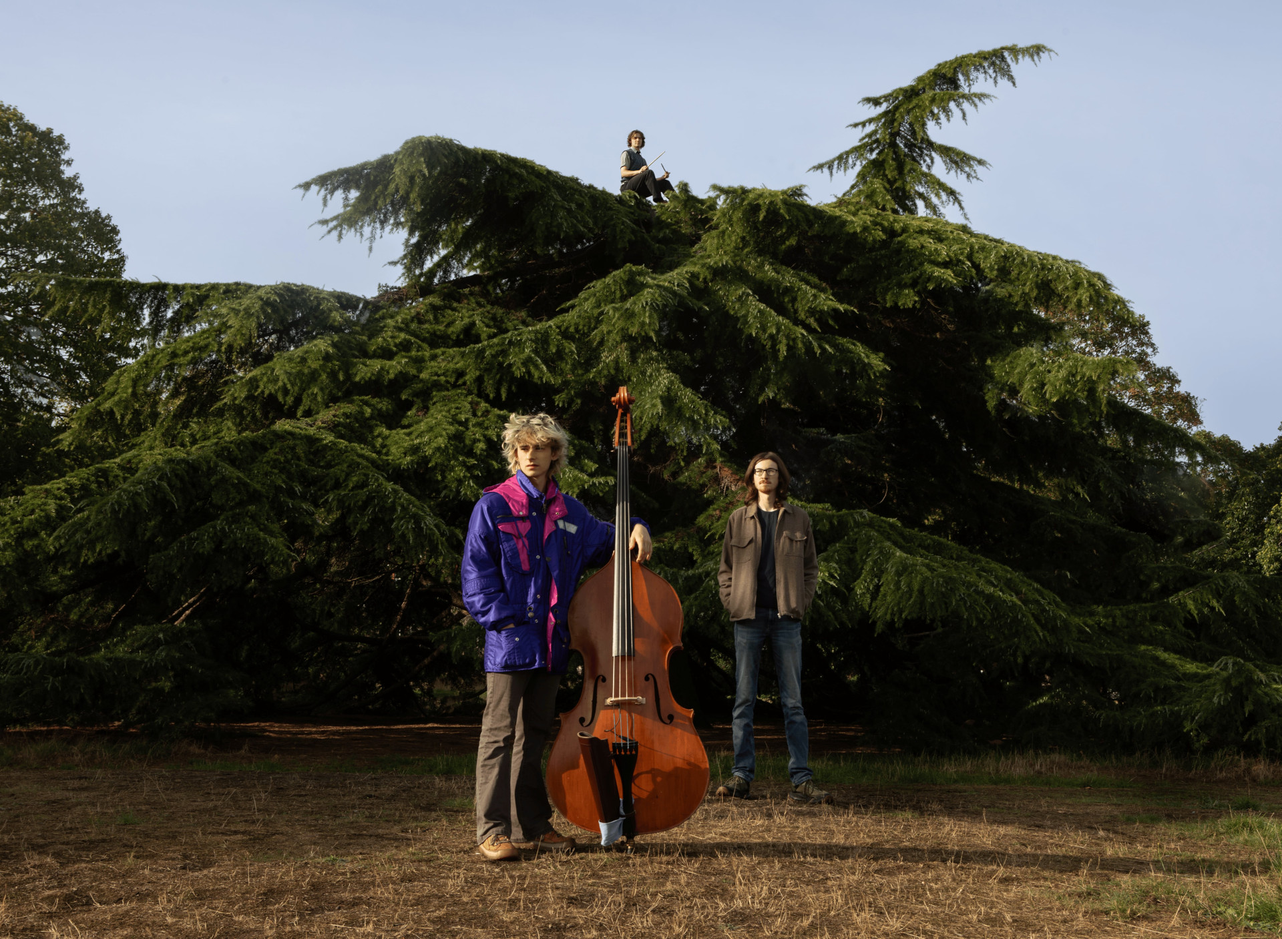
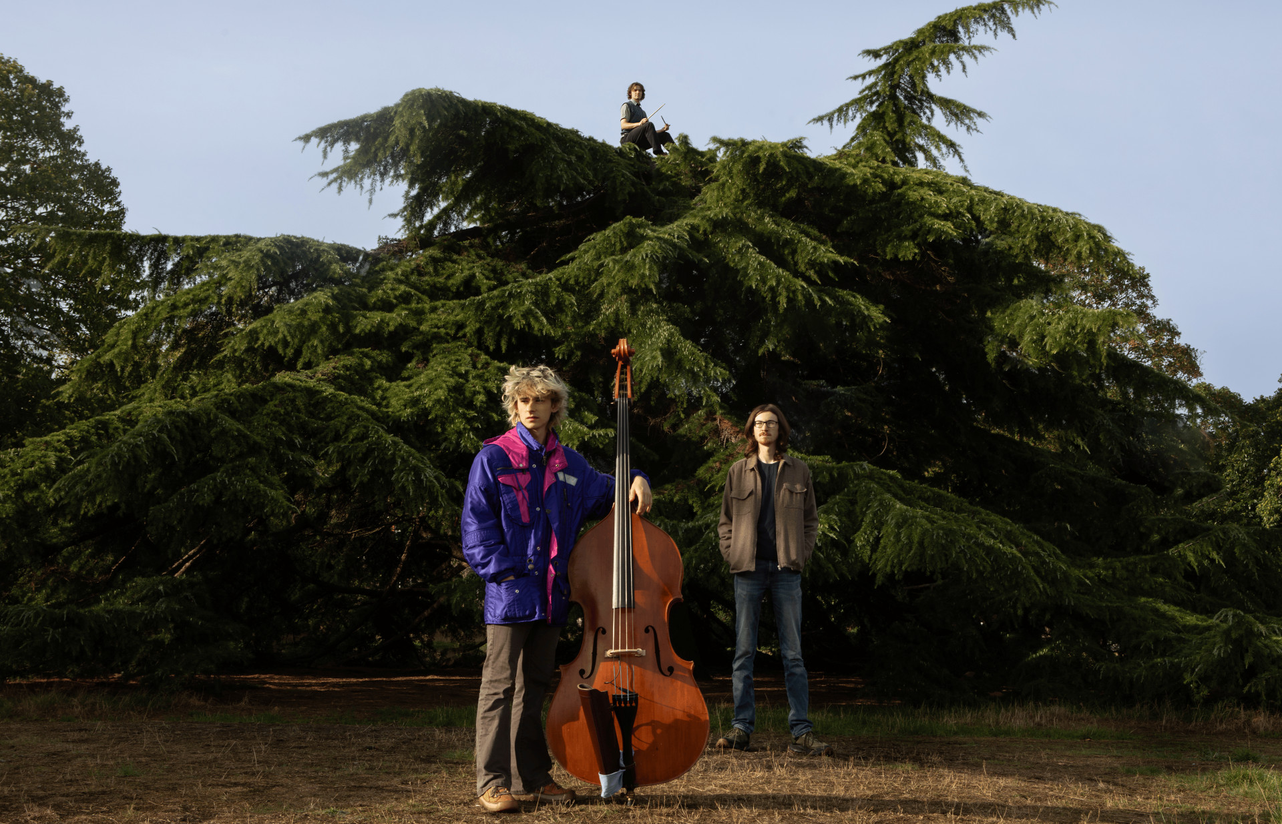
Add files via upload

diff --git a/style.css b/style.css
@@ -1,98 +1,126 @@
 
-/*@media (max-width: 1200px) {.emrys {padding-left: 2%;}}*/
+/*@media only screen and (max-width: 1500px) {.emrys {padding-left: 2%;}}*/
 /*pointer coarse*/
 
-@media (max-width: 1200px), (pointer: coarse) {.menu {z-index: 10; padding-top: 5vh; position: fixed; padding-left: 5vw; padding-right: 5vw; bottom: 0; left: 0; right: 0; padding-bottom: 2vh; display: grid; grid-template-columns: 1fr 1fr 1fr; align-items: center; justify-items: center;}
+@media only screen and (max-width: 900px), (pointer: coarse) {.menu {z-index: 10; padding-top: 5vh; position: fixed; padding-left: 5vw; padding-right: 5vw; bottom: 0; left: 0; right: 0; padding-bottom: 2vh; display: grid; grid-template-columns: 1fr 1fr 1fr; align-items: center; justify-items: center;}
 }
 /*POINTER COARSE*/
-@media (max-width: 1200px), (pointer: coarse) {.centre-menu {z-index: 10; padding-top: 5vh; position: fixed; bottom: 57%; left: 0; right: 0; padding-bottom: 2vh; display: grid; padding-left: 5vw; padding-right: 5vw; grid-template-columns: 1fr 1fr 1fr; align-items: center; justify-items: center;}
+@media only screen and (max-width: 900px), (pointer: coarse) {.centre-menu {z-index: 10; padding-top: 5vh; position: fixed; bottom: 57%; left: 0; right: 0; padding-bottom: 2vh; display: grid; padding-left: 5vw; padding-right: 5vw; grid-template-columns: 1fr 1fr 1fr; align-items: center; justify-items: center;}
 }
 
 /*pointer coarse*/
-@media (max-width: 1200px), (pointer: coarse) {.menu-blur {z-index: 10; padding-top: 5vh; position: fixed; bottom: 0; left: 0; right: 0; padding-bottom: 2vh; display: grid; grid-template-columns: 1fr 1fr 1fr; align-items: center; justify-items: center; backdrop-filter: blur(10px);}
+@media only screen and (max-width: 900px), (pointer: coarse) {.menu-blur {z-index: 10; padding-top: 5vh; position: fixed; bottom: 0; left: 0; right: 0; padding-bottom: 2vh; display: grid; grid-template-columns: 1fr 1fr 1fr; align-items: center; justify-items: center; backdrop-filter: blur(10px);}
 }
 
 /*pointer coarse*/
-@media (max-width: 1200px), (pointer: coarse) {.header { position: fixed; z-index: 10; top: 0; left: 0; right: 0; display: grid; padding-left: 5vw; padding-right: 5vw; grid-template-columns: 1fr 1fr 1fr; height: 17vh; align-items: center; justify-items: center;}
+@media only screen and (max-width: 900px), (pointer: coarse) {.header { position: fixed; z-index: 10; top: 0; left: 0; right: 0; display: grid; padding-left: 5vw; padding-right: 5vw; grid-template-columns: 1fr 1fr 1fr; height: 17vh; align-items: center; justify-items: center;}
 }
 /*pointer coarse*/
-@media (max-width: 1200px), (pointer: coarse) {.header-blur {position: fixed; z-index: 10; top: 0; left: 0; right: 0; display: grid; padding-left: 5vw; padding-right: 5vw; grid-template-columns: 1fr 1fr 1fr; height: 17vh; align-items: center; justify-items: center; mask: linear-gradient( black, black, black, black, transparent); backdrop-filter: blur(7px);}
+@media only screen and (max-width: 900px), (pointer: coarse) {.header-blur {position: fixed; z-index: 10; top: 0; left: 0; right: 0; display: grid; padding-left: 5vw; padding-right: 5vw; grid-template-columns: 1fr 1fr 1fr; height: 17vh; align-items: center; justify-items: center; mask: linear-gradient( black, black, black, black, transparent); backdrop-filter: blur(7px);}
 }
 
-@media (max-width: 1200px), (pointer: coarse) {.contactinfo {position: absolute; top: 0; left: 0; transform: translate(10vw, 100%);}}
+@media only screen and (max-width: 1500px), (pointer: coarse) {.contactinfo {position: absolute; top: 0; left: 0; transform: translate(10vw, 100%);}}
 /*pointer coarse*/
-@media (max-width: 420px), (pointer: coarse) {.menu-items {width: 6vmax; filter: sepia(100%) saturate(100%);}}
+@media only screen and (max-width: 420px), (pointer: coarse) {.menu-items {width: 6vmax; filter: sepia(100%) saturate(100%);}}
 
-@media (max-width: 420px), (pointer: coarse) {.double-bass {width: 11vmax; filter: sepia(100%) saturate(100%); transform: rotate(20deg);}}
+@media only screen and (max-width: 420px), (pointer: coarse) {.double-bass {width: 11vmax; filter: sepia(100%) saturate(100%); transform: rotate(20deg);}}
 
-@media (max-width: 420px), (pointer: coarse) {.about {width: 17vmax; filter: sepia(100%) saturate(100%);}}
+@media only screen and (max-width: 420px), (pointer: coarse) {.about {width: 17vmax; filter: sepia(100%) saturate(100%);}}
 /*pointer coarse*/
-@media (max-width: 420px), (pointer: coarse) {.mountain {width: 18vmax; filter: sepia(100%) saturate(100%); position: absolute; transform: translate(-50%, -50%);}}
+@media only screen and (max-width: 420px), (pointer: coarse) {.mountain {width: 18vmax; filter: sepia(100%) saturate(100%); position: absolute; transform: translate(-50%, -50%);}}
 
-@media (max-width: 420px), (pointer: coarse) {.logo {width: 24vmax; filter: sepia(100%) saturate(100%); position: absolute; transform: translate(-40%, -50%);}}
+@media only screen and (max-width: 420px), (pointer: coarse) {.logo {width: 24vmax; filter: sepia(100%) saturate(100%); position: absolute; transform: translate(-40%, -50%);}}
 
-@media (max-width: 1200px), (pointer: coarse) {.block {text-justify: center; padding-top: 14vh; padding-bottom: 10vh;}}
+@media only screen and (max-width: 1500px), (pointer: coarse) {.block {text-justify: center; padding-top: 14vh; padding-bottom: 10vh;}}
             
-@media (max-width: 420px), (pointer: coarse) {h1 {font-size: 12vmin}}
+@media only screen and (max-width: 420px), (pointer: coarse) {h1 {font-size: 12vmin}}
 
-@media (max-width: 1200px), (pointer: coarse) {p {padding-left: 2%;}}
+@media only screen and (max-width: 1500px), (pointer: coarse) {p {padding-left: 2%;}}
 
-@media (max-width: 420px), (pointer: coarse) {p {font-size: 6vmin}}
+@media only screen and (max-width: 420px), (pointer: coarse) {p {font-size: 6vmin}}
 
-@media (max-width: 420px), (pointer: coarse) {.link-pic {position: absolute; top: 20%; left: 50%; transform: translate(-50%, -50%); max-width: 90vmax; opacity: 0}
+@media only screen and (max-width: 420px), (pointer: coarse) {.link-pic {position: absolute; top: 20%; left: 50%; transform: translate(-50%, -50%); max-width: 90vmax; opacity: 0}
             }
             
-@media (max-width: 500px), (pointer: coarse) {.center {
+@media only screen and (max-width: 500px), (pointer: coarse) {.center {
     position: relative;
     padding-top: 20vh; display: flex; justify-content: center; align-items: center;}}
 
            
 
+
+
+
+
+
+
+
             /*keep below as breakpoint margins, set above as pointer coarse?*/
 
-     
-/*@media (min-width: 1200px) {.emrys {padding-left: 20%;}}*/
-
-@media (min-width: 1200px) {.menu {z-index: 10; position: fixed; bottom: 0; left: 0; right: 0; padding-bottom: 2vh; padding-left: 13vw; padding-right: 13vw; display: grid; grid-template-columns: 1fr 1fr 1fr; align-items: center; justify-items: center;}
+@media only screen and (min-width: 900px) and (max-width: 1500px) {.menu {z-index: 10; position: fixed; bottom: 0; left: 0; right: 0; padding-bottom: 2vh; padding-left: 5vw; padding-right: 5vw; display: grid; grid-template-columns: 1fr 1fr 1fr; align-items: center; justify-items: center;}
 }
 
-@media (min-width: 1200px) {.centre-menu {z-index: 10; position: fixed; top: 42vh; bottom: 40vh; left: 0; right: 0; padding-bottom: 2vh; padding-left: 13vw; padding-right: 13vw; display: grid; grid-template-columns: 1fr 1fr 1fr; align-items: center; justify-items: center;}
+@media only screen and (min-width: 900px) and (max-width: 1500px) {.centre-menu {z-index: 10; position: fixed; top: 42vh; bottom: 40vh; left: 0; right: 0; padding-bottom: 2vh; padding-left: 5vw; padding-right: 5vw; display: grid; grid-template-columns: 1fr 1fr 1fr; align-items: center; justify-items: center;}
 }
 
-@media (min-width: 1200px) {.menu-blur {z-index: 10; position: fixed; bottom: 0; left: 0; right: 0; padding-bottom: 2vh; padding-left: 10vw; padding-right: 10vw; display: grid; grid-template-columns: 1fr 1fr 1fr; align-items: center; justify-items: center;}
+/*pointer coarse*/
+@media only screen and (min-width: 900px) and (max-width: 1500px) {.header {position: fixed; z-index: 10; top: 11vh; left: 0; right: 0; padding-left: 5vw; padding-right: 5vw; display: grid; grid-template-columns: 1fr 1fr 1fr; align-items: center; justify-items: center;}
 }
 
-@media (min-width: 1200px) {.header {position: fixed; z-index: 10; top: 11vh; left: 0; right: 0; padding-left: 14vw; padding-right: 13vw; display: grid; grid-template-columns: 1fr 1fr 1fr; align-items: center; justify-items: center;}
+/*pointer coarse*/
+@media only screen and (min-width: 900px) and (max-width: 1500px) {.header-blur {position: fixed; z-index: 10; top: 11vh; left: 0; right: 0; padding-left: 5vw; padding-right: 5vw; display: grid; grid-template-columns: 1fr 1fr 1fr; align-items: center; justify-items: center;}
 }
 
-@media (min-width: 1200px) {.header-blur {position: fixed; z-index: 10; top: 11vh; left: 0; right: 0; padding-left: 14vw; padding-right: 13vw; display: grid; grid-template-columns: 1fr 1fr 1fr; align-items: center; justify-items: center;}
+
+
+
+
+
+
+
+
+/*@media only screen and (min-width: 1500px) {.emrys {padding-left: 20%;}}*/
+
+@media only screen and (min-width: 1500px) {.menu {z-index: 10; position: fixed; bottom: 0; left: 0; right: 0; padding-bottom: 2vh; padding-left: 13vw; padding-right: 13vw; display: grid; grid-template-columns: 1fr 1fr 1fr; align-items: center; justify-items: center;}
 }
 
-@media (min-width: 1200px) {.contactinfo {position: absolute; transform: translate(0%, 100%); margin-right: 17vw; margin-left: 17vw; }}
+@media only screen and (min-width: 1500px) {.centre-menu {z-index: 10; position: fixed; top: 42vh; bottom: 40vh; left: 0; right: 0; padding-bottom: 2vh; padding-left: 13vw; padding-right: 13vw; display: grid; grid-template-columns: 1fr 1fr 1fr; align-items: center; justify-items: center;}
+}
 
-@media (min-width: 420px) {.menu-items {width: 7vmin; filter: sepia(100%) saturate(100%);}}
+@media only screen and (min-width: 1500px) {.menu-blur {z-index: 10; position: fixed; bottom: 0; left: 0; right: 0; padding-bottom: 2vh; padding-left: 10vw; padding-right: 10vw; display: grid; grid-template-columns: 1fr 1fr 1fr; align-items: center; justify-items: center;}
+}
 
-@media (min-width: 420px) {.double-bass {width: 13vmin; filter: sepia(100%) saturate(100%);}}
+@media only screen and (min-width: 1500px) {.header {position: fixed; z-index: 10; top: 11vh; left: 0; right: 0; padding-left: 14vw; padding-right: 13vw; display: grid; grid-template-columns: 1fr 1fr 1fr; align-items: center; justify-items: center;}
+}
 
-@media (min-width: 420px) {.about {width: 20vmin; filter: sepia(100%) saturate(100%);}}
+@media only screen and (min-width: 1500px) {.header-blur {position: fixed; z-index: 10; top: 11vh; left: 0; right: 0; padding-left: 14vw; padding-right: 13vw; display: grid; grid-template-columns: 1fr 1fr 1fr; align-items: center; justify-items: center;}
+}
 
-@media (min-width: 420px) {.mountain {width: 24vmin; filter: sepia(100%) saturate(100%); position: absolute; transform: translate(-50%, -50%);}}
+@media only screen and (min-width: 1500px) {.contactinfo {position: absolute; transform: translate(0%, 100%); margin-right: 17vw; margin-left: 17vw; }}
+
+@media only screen and (min-width: 420px) {.menu-items {width: 7vmin; filter: sepia(100%) saturate(100%);}}
+
+@media only screen and (min-width: 420px) {.double-bass {width: 13vmin; filter: sepia(100%) saturate(100%);}}
+
+@media only screen and (min-width: 420px) {.about {width: 20vmin; filter: sepia(100%) saturate(100%);}}
+
+@media only screen and (min-width: 420px) {.mountain {width: 24vmin; filter: sepia(100%) saturate(100%); position: absolute; transform: translate(-50%, -50%);}}
 
 
-@media (min-width: 420px) {.logo {width: 34vmin; filter: sepia(100%) saturate(100%); position: absolute; transform: translate(-50%, -50%);}}
+@media only screen and (min-width: 420px) {.logo {width: 34vmin; filter: sepia(100%) saturate(100%); position: absolute; transform: translate(-50%, -50%);}}
 
-@media (min-width: 420px) {h1 {font-size: 7vmin;}}
+@media only screen and (min-width: 420px) {h1 {font-size: 7vmin;}}
 
 
 
-@media (min-width: 420px) {p {font-size: 3vmin;}}
+@media only screen and (min-width: 420px) {p {font-size: 3vmin;}}
 
-@media (min-width: 420px) {.link-pic {position: absolute; top: 20%; left: 50%; transform: translate(-50%, -50%); max-height: 70vmin; opacity: 1}
+@media only screen and (min-width: 420px) {.link-pic {position: absolute; top: 20%; left: 50%; transform: translate(-50%, -50%); max-height: 70vmin; opacity: 1}
             }
             
- @media (min-width: 1200px) {.block {position: absolute; text-justify: center; margin-right: 25vw; margin-left: 19vw; margin-top: 20vh;}}
+ @media only screen and (min-width: 1500px) {.block {position: absolute; text-justify: center; margin-right: 25vw; margin-left: 19vw; margin-top: 20vh;}}
 
-@media (min-width: 500px) {.center {
+@media only screen and (min-width: 500px) {.center {
     position: relative;
     padding-top: 20vh; display: flex; justify-content: center; align-items: center;}}
 
@@ -111,4 +139,4 @@ iframe {width: 80vmin; height: 45vmin}
             
 .hover-effect:hover {cursor: pointer; color: black; background-color: rgb(255, 255, 255); filter: sepia(100%) saturate(100%);}
 
-            
+           

diff --git a/index.html b/index.html
@@ -20,11 +20,11 @@
 
         <style>
 
-            @media (max-width: 500px), (pointer: coarse) {body {background-image: url(EMRYSBACKGROUND.jpg); background-position: center top; background-size: 310%; background-repeat: no-repeat; background-attachment: scroll; overflow: hidden;}}
+            @media only screen and (max-width: 500px), (pointer: coarse) {body {background-image: url(EMRYSBACKGROUND.jpg); background-position: center top; background-size: 310%; background-repeat: no-repeat; background-attachment: scroll; overflow: hidden;}}
 
-            @media (min-width: 500px) and (max-width: 1200px) {body {background-image: url(EMRYSBACKGROUND.jpg); background-position: center top; background-size: 210%; background-repeat: no-repeat; background-attachment: scroll; overflow: hidden;}}
+            @media only screen and (min-width: 500px) and (max-width: 1200px) {body {background-image: url(EMRYSBACKGROUND.jpg); background-position: center top; background-size: 210%; background-repeat: no-repeat; background-attachment: scroll; overflow: hidden;}}
 
-            @media (min-width: 1200px) {body {background-image: url(EMRYSBACKGROUND.jpg); background-position: center; background-size: 70%; background-repeat: no-repeat; background-attachment: fixed;}}
+            @media only screen and (min-width: 1200px) {body {background-image: url(EMRYSBACKGROUND.jpg); background-position: center; background-size: contain; background-repeat: no-repeat; background-attachment: fixed;}}
 
 
         </style>

diff --git a/WALKING-TOUR.html b/WALKING-TOUR.html
@@ -23,9 +23,11 @@ each concert will be curated to form a debut album.">
 
         <style>
 
-            @media (max-width: 1200px), (pointer: coarse) {body {background-image: url(NOTEBOOK.jpeg); background-position: center; background-size: cover; background-repeat: no-repeat; background-attachment: fixed;}}
+            @media only screen and (max-width: 500px), (pointer: coarse) {body {background-image: url(NOTEBOOK.jpeg); background-position: center top; background-size: 310%; background-repeat: no-repeat; background-attachment: scroll; overflow: hidden;}}
 
-            @media (min-width: 1200px) {body {background-image: url(NOTEBOOK.jpeg); background-position: center; background-size: 70%; background-repeat: no-repeat; background-attachment: fixed;}}
+            @media only screen and (min-width: 500px) and (max-width: 1200px) {body {background-image: url(NOTEBOOK.jpeg); background-position: center top; background-size: 210%; background-repeat: no-repeat; background-attachment: scroll; overflow: hidden;}}
+
+            @media only screen and (min-width: 1200px) {body {background-image: url(NOTEBOOK.jpeg); background-position: center; background-size: contain; background-repeat: no-repeat; background-attachment: fixed;}}
 
             
             

diff --git a/ABOUT.html b/ABOUT.html
@@ -15,9 +15,9 @@
 
         <style>
 
-            @media (max-width: 1200px), (pointer: coarse) {body {background-image: url(NOTEBOOK.jpeg); background-position: center; background-size: cover; background-repeat: no-repeat; background-attachment: fixed;}}
+            @media only screen and (max-width: 1200px), (pointer: coarse) {body {background-image: url(NOTEBOOK.jpeg); background-position: center; background-size: cover; background-repeat: no-repeat; background-attachment: fixed;}}
 
-            @media (min-width: 1200px) {body {background-image: url(NOTEBOOK.jpeg); background-position: center; background-size: 70%; background-repeat: no-repeat; background-attachment: fixed;}}
+            @media only screen and (min-width: 1200px) {body {background-image: url(NOTEBOOK.jpeg); background-position: center; background-size: 70%; background-repeat: no-repeat; background-attachment: fixed;}}
 
             
             

diff --git a/CONTACT.html b/CONTACT.html
@@ -15,9 +15,9 @@
 
         <style>
 
-            @media (max-width: 1200px), (pointer: coarse) {body {background-image: url(NOTEBOOK.jpeg); background-position: center; background-size: cover; background-repeat: no-repeat; background-attachment: fixed;}}
+            @media only screen and (max-width: 1200px), (pointer: coarse) {body {background-image: url(NOTEBOOK.jpeg); background-position: center; background-size: cover; background-repeat: no-repeat; background-attachment: fixed;}}
 
-            @media (min-width: 1200px) {body {background-image: url(NOTEBOOKCONTACT.jpg); background-position: center; background-size: 70%; background-repeat: no-repeat; background-attachment: fixed;}}
+            @media only screen and (min-width: 1200px) {body {background-image: url(NOTEBOOKCONTACT.jpg); background-position: center; background-size: 70%; background-repeat: no-repeat; background-attachment: fixed;}}
 
             
 
